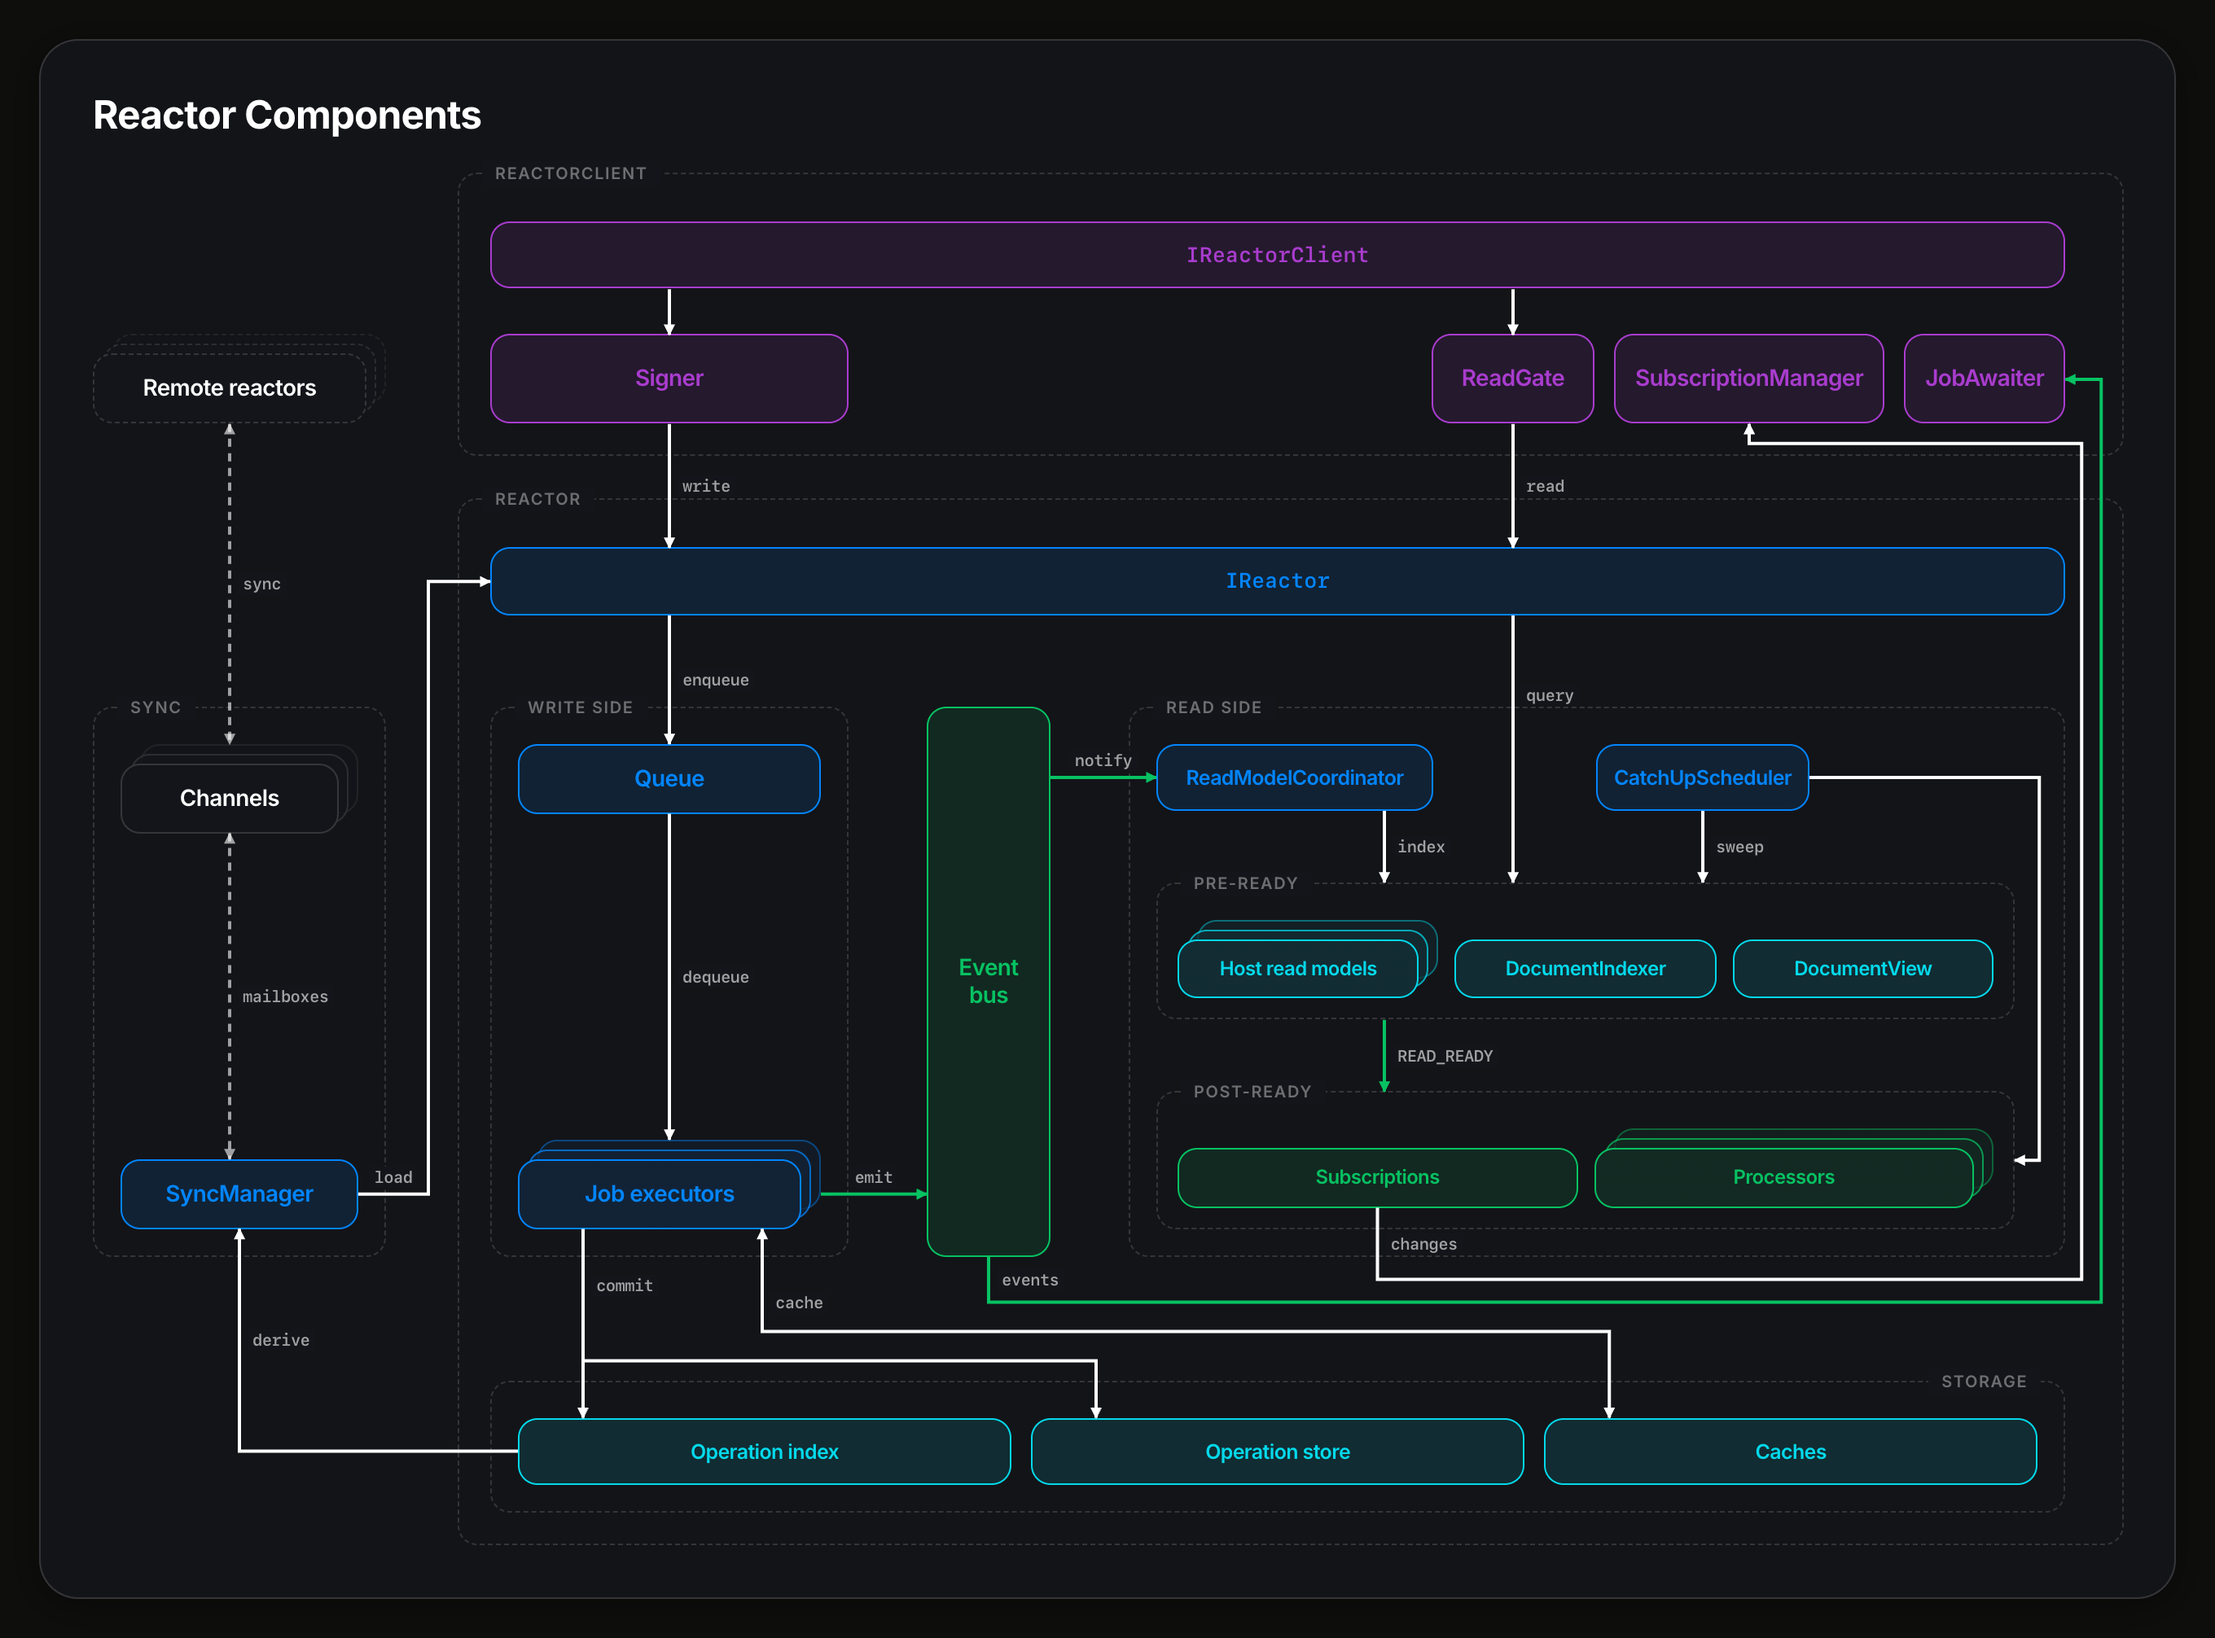
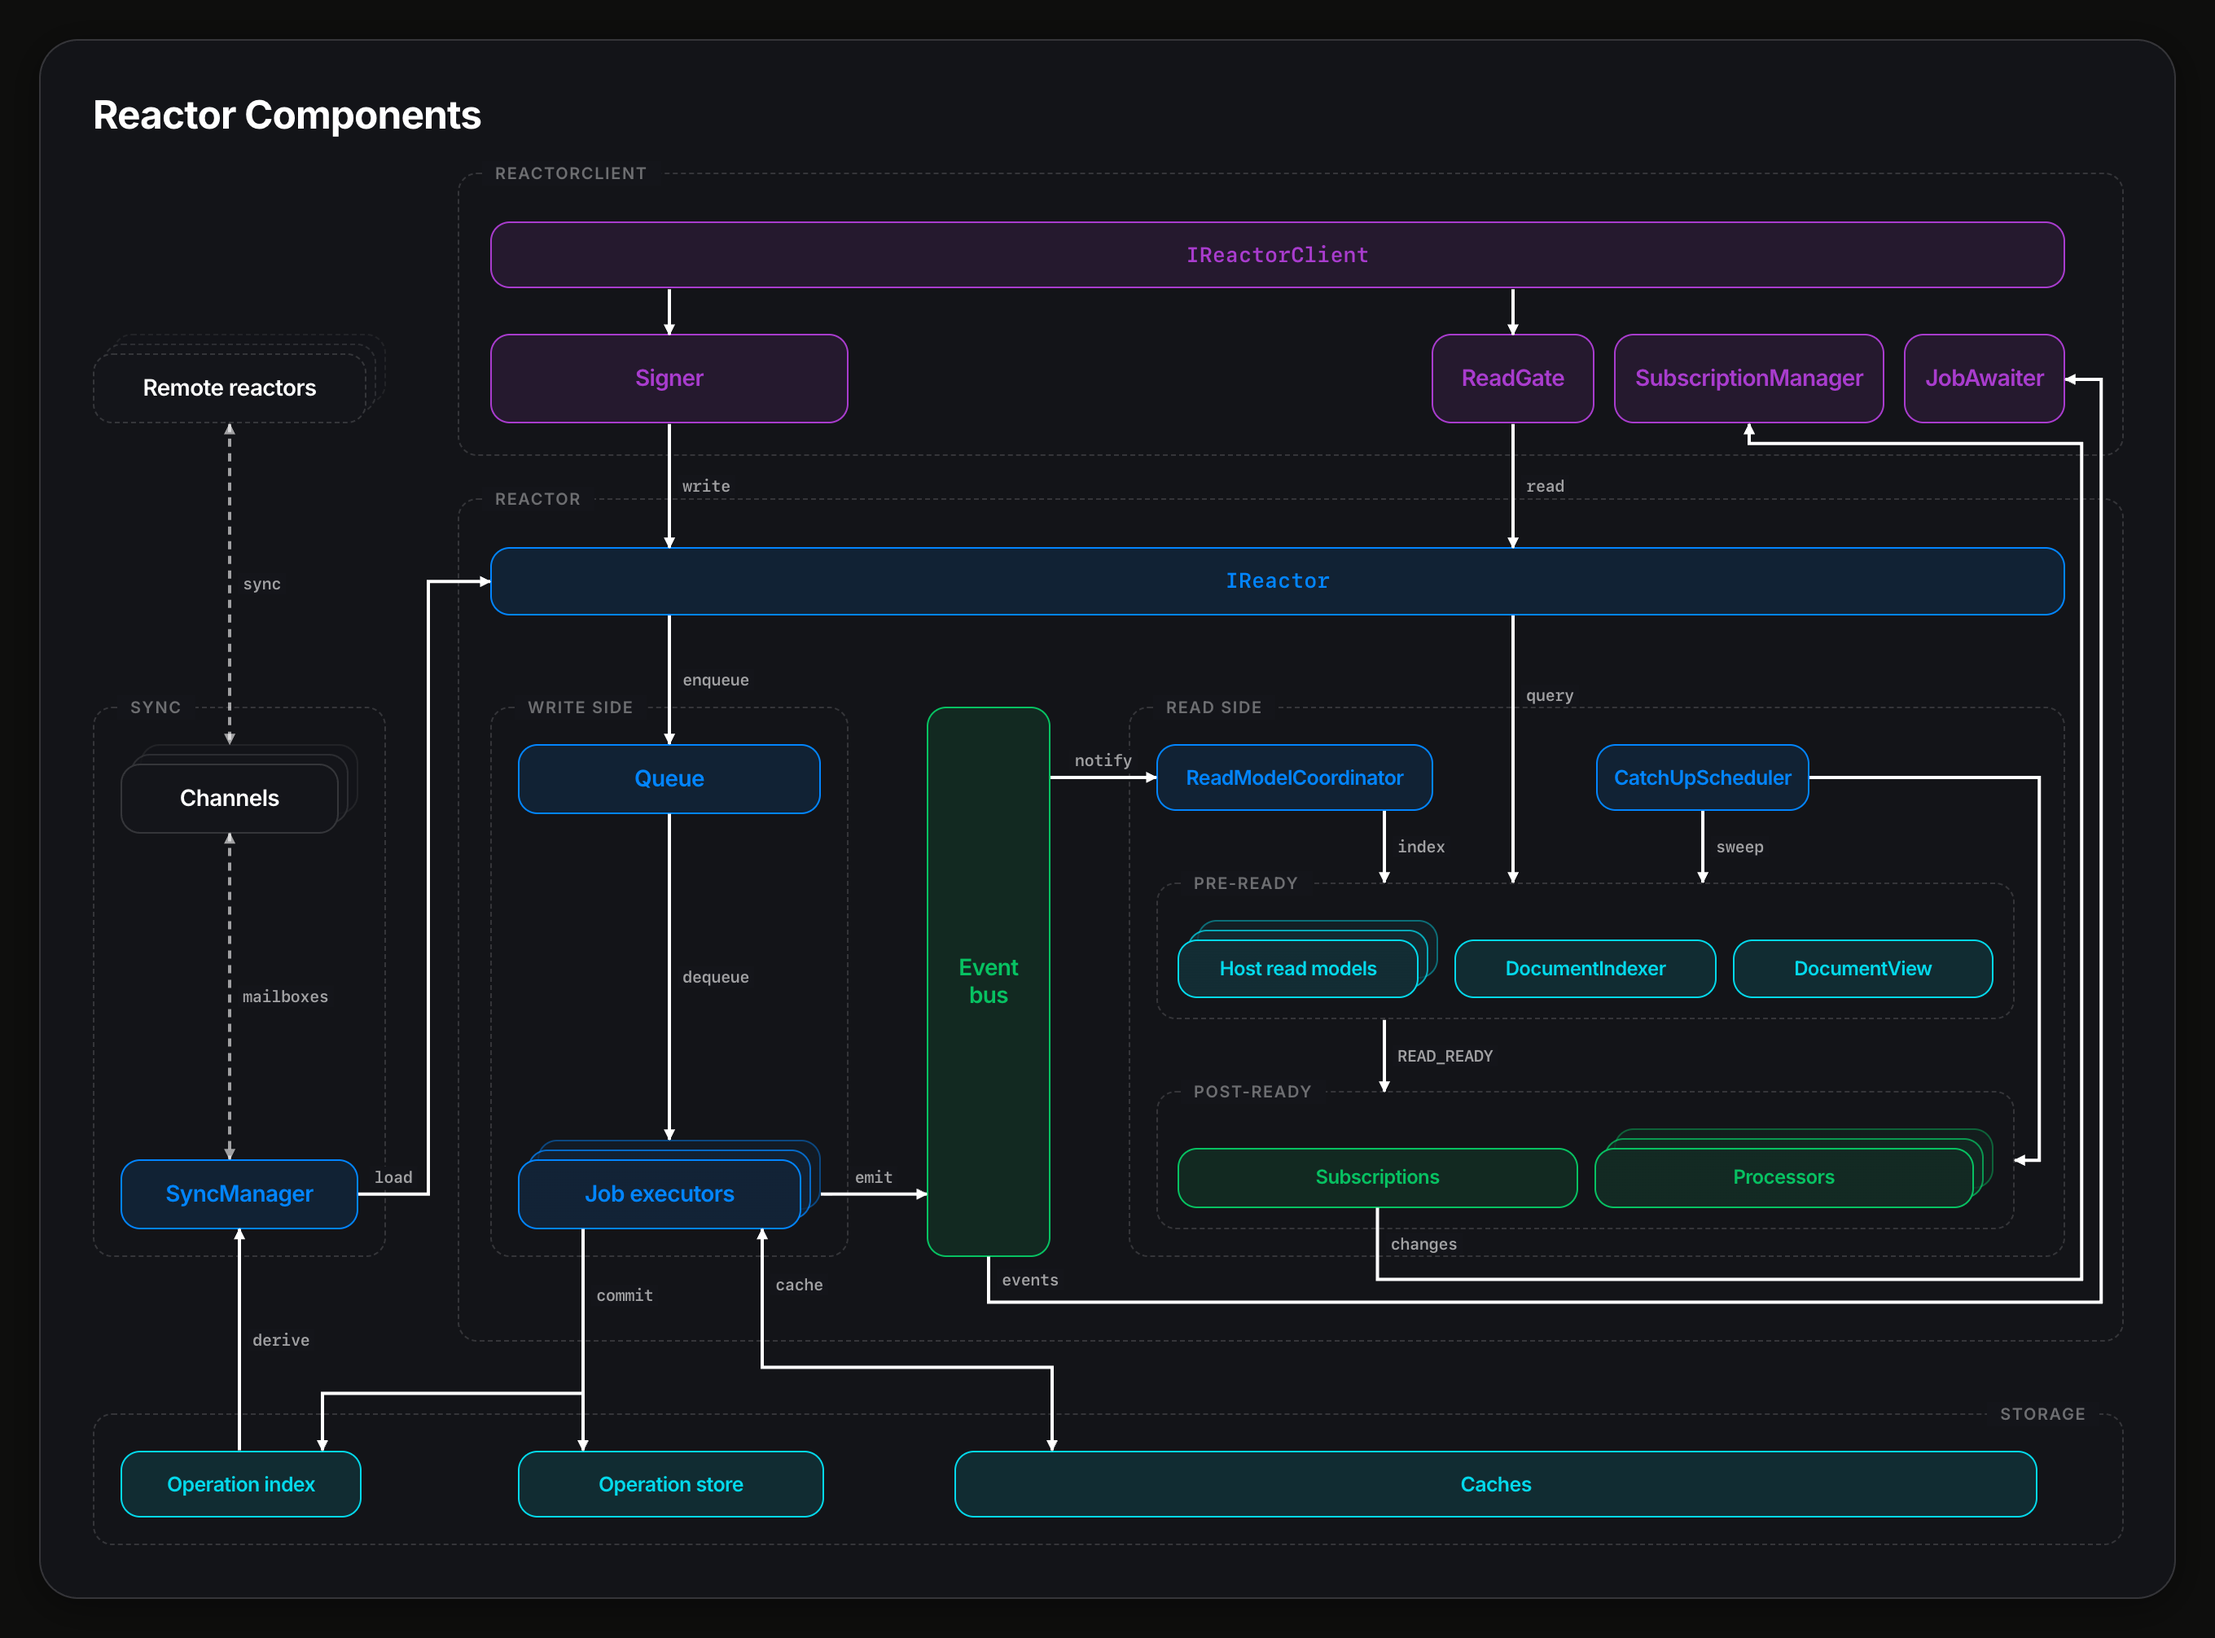
reactor components: storage below sync and reactor, one edge colour
Storage leaves the Reactor frame and becomes a full-width row beneath
both Sync and the reactor, with Operation index under SyncManager so
derive runs straight up. Commit, cache and derive cross the frame
border into it without crossing boxes. Every edge now uses the same
colour; dashed still marks the channel transport.

diff --git a/pages/reactor-components.html b/pages/reactor-components.html
@@ -137,7 +137,6 @@
       display: grid;
       grid-template-columns: 180px 64px 220px 48px 76px 48px 1fr 36px;
       row-gap: 0;
-      padding-bottom: 20px;
       margin-top: 18px;
     }
     .frame-bg {
@@ -148,11 +147,11 @@
       margin: -30px 0 -20px -20px;
     }
     .client-frame  { grid-row: 1 / 3; margin-bottom: 56px; }
-    .reactor-frame { grid-row: 3 / 6; }
+    .reactor-frame { grid-row: 3 / 5; margin-bottom: 44px; }
     .r1 { grid-row: 1; margin-bottom: 28px; }
     .r2 { grid-row: 2; margin-bottom: 76px; }
     .r3 { grid-row: 3; margin-bottom: 56px; }
-    .r4 { grid-row: 4; margin-bottom: 76px; }
+    .r4 { grid-row: 4; margin-bottom: 96px; }
     .r5 { grid-row: 5; }
     .parts-right { grid-column: 7; display: flex; gap: 12px; align-items: stretch; }
     .parts-right .box, #signer { padding: 12px 12px; }
@@ -175,12 +174,12 @@
     .phase-group .box { padding: 10px 6px; }
     .phase-group .box-title { font-size: 12px; }
     .storage {
-      grid-column: 3 / 8;
+      grid-column: 1 / -1;
       display: grid;
-      grid-template-columns: repeat(3, 1fr);
-      gap: 12px;
+      grid-template-columns: 180px 64px 220px 48px 76px 48px 1fr 36px;
+      padding: 22px 0 16px;
     }
-    .storage .box { padding: 12px 6px; }
+    .storage .box { padding: 12px 6px; margin: 0 16px; }
     .storage .box-title { font-size: 12.5px; }
   </style>
 </head>
@@ -208,8 +207,9 @@
                                registers on it at reactor-client.ts:1706-1758
     Reactor (frame) .......... core/reactor-builder.ts:1445-1482 (InProcessReactorModule: queue, executorManager, eventBus, operationStore,
                                writeCache, operationIndex, documentView, documentIndexer, readModelCoordinator, processorManager,
-                               subscriptionManager, catchUp, reactor). The module also carries syncModule; Sync is drawn outside the
-                               frame as a separate piece, as are ReactorClient and remote reactors
+                               subscriptionManager, catchUp, reactor). The module also carries syncModule and the stores; Sync and
+                               Storage are drawn outside the frame (Storage under both Sync and the reactor), as are ReactorClient
+                               and remote reactors. All edges share one colour; dashed marks the channel transport
     IReactor (bar) ........... core/types.ts:138 (export interface IReactor); implemented by core/reactor.ts:83 (class Reactor implements
                                IReactor) over queue, jobTracker, documentView, documentIndexer
     write .................... reactor-client.ts:1040 (this.reactor.execute), :860 (executeBatch), :1476 (loadBatch)
@@ -315,9 +315,9 @@
 
           <div class="group storage r5" id="storage">
             <span class="group-label right">Storage</span>
-            <div class="box accent-cyan" id="opindex"><div class="box-title">Operation index</div></div>
-            <div class="box accent-cyan" id="opstore"><div class="box-title">Operation store</div></div>
-            <div class="box accent-cyan" id="caches"><div class="box-title">Caches</div></div>
+            <div class="box accent-cyan" id="opindex" style="grid-column:1"><div class="box-title">Operation index</div></div>
+            <div class="box accent-cyan" id="opstore" style="grid-column:3"><div class="box-title">Operation store</div></div>
+            <div class="box accent-cyan" id="caches" style="grid-column:5 / 8"><div class="box-title">Caches</div></div>
           </div>
         </div>
       </div>
@@ -342,30 +342,30 @@
       const oi = R('opindex'), os = R('opstore'), ca = R('caches'), st = R('storage');
       const qx = q.cx, rx = rg.cx, ix = co.r - 30, lane = pre.r + 15;
       const loadX = syg.r + 26;
-      const tx = e.l + 40, sx = os.l + 40, kx = e.r - 24, kd = ca.l + 40;
-      const yLow2 = rs.b + 14, yLow = rs.b + 28, cacheY = st.t - 30, branchY = st.t - 12;
+      const tx = e.l + 40, ixd = oi.r - 24, kx = e.r - 24, kd = ca.l + 60;
+      const yLow2 = rs.b + 14, yLow = rs.b + 28, cacheY = st.t - 28, branchY = st.t - 12;
       const lane2 = rs.r + 10, lane1 = rs.r + 22, smY = sm.b + 12;
       return [
         { cls: 'w-call', pts: [[qx, cb.b], [qx, sg.t]], label: '', seg: 0 },
         { cls: 'w-call', pts: [[rx, cb.b], [rx, rg.t]], label: '', seg: 0 },
         { cls: 'w-call', pts: [[qx, sg.b], [qx, r.t]], label: 'write', seg: 0 },
         { cls: 'w-call', pts: [[rx, rg.b], [rx, r.t]], label: 'read', seg: 0 },
-        { cls: 'w-event', pts: [[b.cx, b.b], [b.cx, yLow], [lane1, yLow], [lane1, aw.cy], [aw.r, aw.cy]], label: 'events', seg: 0 },
+        { cls: 'w-call', pts: [[b.cx, b.b], [b.cx, yLow], [lane1, yLow], [lane1, aw.cy], [aw.r, aw.cy]], label: 'events', seg: 0 },
         { cls: 'w-call', pts: [[subs.cx, subs.b], [subs.cx, yLow2], [lane2, yLow2], [lane2, smY], [sm.cx, smY], [sm.cx, sm.b]], label: 'changes', seg: 0 },
         { cls: 'w-call', pts: [[qx, r.b], [qx, q.t]], label: 'enqueue', seg: 0 },
         { cls: 'w-call', pts: [[rx, r.b], [rx, pre.t]], label: 'query', seg: 0, at: 0.3 },
         { cls: 'w-call', pts: [[qx, q.b], [qx, e.t - F]], label: 'dequeue', seg: 0 },
-        { cls: 'w-event', pts: [[e.r + F, e.cy], [b.l, e.cy]], label: 'emit', seg: 0 },
-        { cls: 'w-event', pts: [[b.r, co.cy], [co.l, co.cy]], label: 'notify', seg: 0 },
+        { cls: 'w-call', pts: [[e.r + F, e.cy], [b.l, e.cy]], label: 'emit', seg: 0 },
+        { cls: 'w-call', pts: [[b.r, co.cy], [co.l, co.cy]], label: 'notify', seg: 0 },
         { cls: 'w-call', pts: [[ix, co.b], [ix, pre.t]], label: 'index', seg: 0 },
         { cls: 'w-call', pts: [[cu.cx, cu.b], [cu.cx, pre.t]], label: 'sweep', seg: 0 },
         { cls: 'w-call', pts: [[cu.r, cu.cy], [lane, cu.cy], [lane, post.cy], [post.r, post.cy]], label: '', seg: 0 },
-        { cls: 'w-event', pts: [[ix, pre.b], [ix, post.t]], label: 'READ_READY', seg: 0 },
-        { cls: 'w-call', pts: [[tx, e.b], [tx, oi.t]], label: 'commit', seg: 0, at: 0.3 },
-        { cls: 'w-call', pts: [[tx, branchY], [sx, branchY], [sx, os.t]], label: '', seg: 0 },
-        { cls: 'w-call', both: true, pts: [[kx, e.b], [kx, cacheY], [kd, cacheY], [kd, ca.t]], label: 'cache', seg: 0, at: 0.72 },
+        { cls: 'w-call', pts: [[ix, pre.b], [ix, post.t]], label: 'READ_READY', seg: 0 },
+        { cls: 'w-call', pts: [[tx, e.b], [tx, os.t]], label: 'commit', seg: 0, at: 0.3 },
+        { cls: 'w-call', pts: [[tx, branchY], [ixd, branchY], [ixd, oi.t]], label: '', seg: 0 },
+        { cls: 'w-call', both: true, pts: [[kx, e.b], [kx, cacheY], [kd, cacheY], [kd, ca.t]], label: 'cache', seg: 0, at: 0.4 },
         { cls: 'w-call', pts: [[s.r, s.cy], [loadX, s.cy], [loadX, r.cy], [r.l, r.cy]], label: 'load', seg: 0 },
-        { cls: 'w-call', pts: [[oi.l, oi.cy], [s.cx, oi.cy], [s.cx, s.b]], label: 'derive', seg: 1 },
+        { cls: 'w-call', pts: [[s.cx, oi.t], [s.cx, s.b]], label: 'derive', seg: 0 },
         { cls: 'w-dash', both: true, pts: [[ch.cx, ch.b], [ch.cx, s.t]], label: 'mailboxes', seg: 0 },
         { cls: 'w-dash', both: true, pts: [[rem.cx, rem.b], [rem.cx, ch.t - F]], label: 'sync', seg: 0 },
       ];
